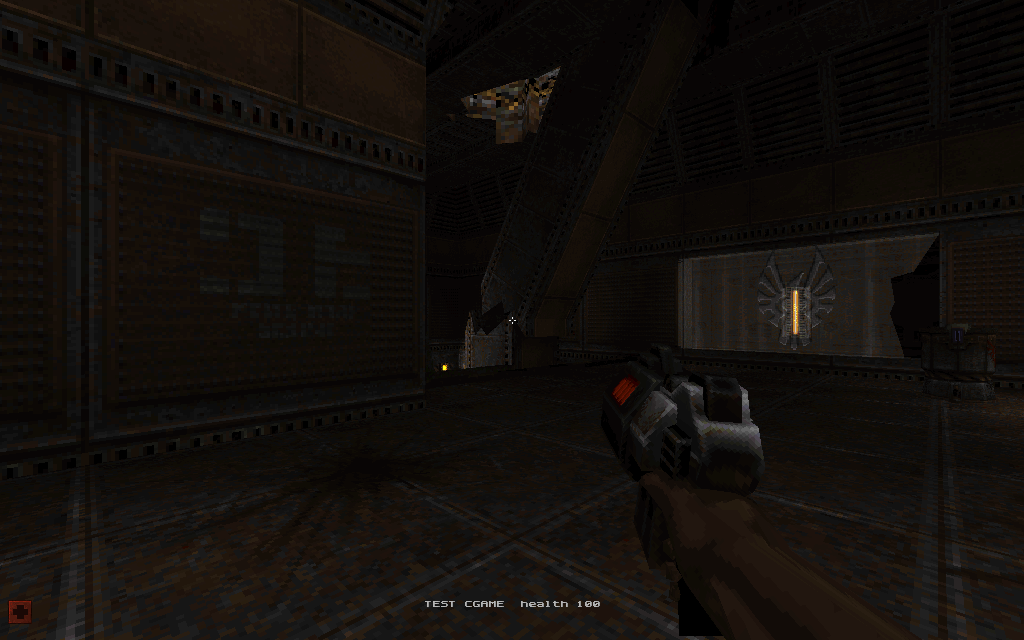
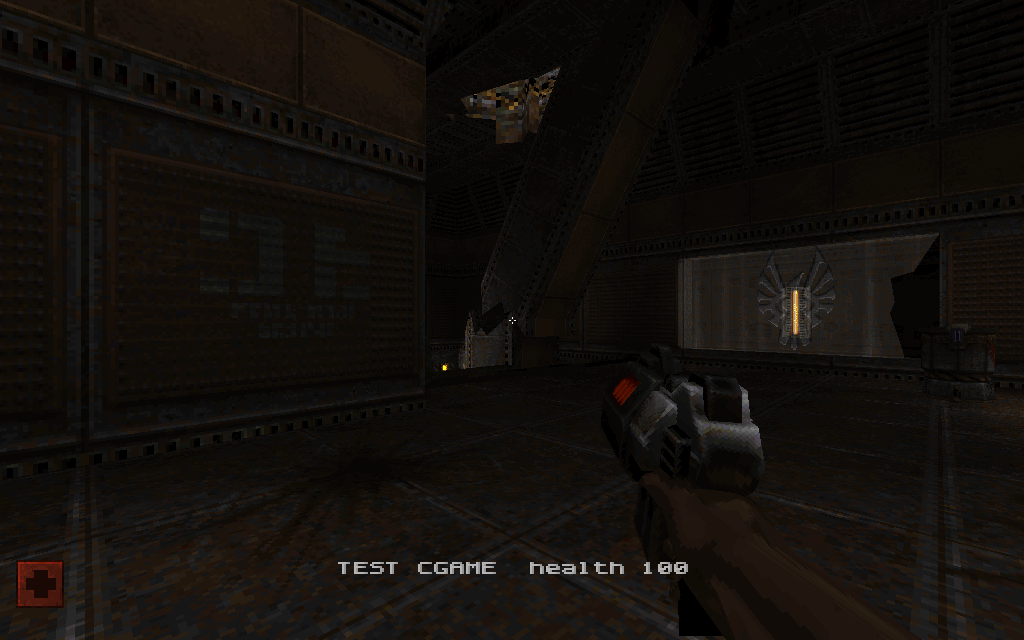
Client game HUD rect in HUD units (fix missing HUD at scale 2 and up)

diff --git a/tests/cgame/cgame_check.py b/tests/cgame/cgame_check.py
@@ -8,7 +8,8 @@ base1 and checks what the module reports about the engine's imports:
     counted (the re-release cvar_t layout),
   - the map name through the re-release configstring numbering,
   - health from the player state, frame valid, server frame, client time,
-  - a picture's size, a key binding.
+  - a picture's size, a key binding,
+  - the HUD rect in HUD units at r_hudscale 2 (pixels / scale).
 The screenshot (module HUD instead of the built-in one) lands in
 build/cgame-check/ and docs/screenshots/.
 
@@ -57,7 +58,7 @@ def main():
         log_path = OUTPUT_DIR / "client.log"
         with open(log_path, "w") as log_file:
             subprocess.run(["stdbuf", "-oL", str(CLIENT_BINARY), "-datadir", str(DEFAULT_DATA_DIR),
-                            "+set", "vid_renderer", "soft", "+set", "r_vsync", "0", "+set", "s_initsound", "0",
+                            "+set", "vid_renderer", "soft", "+set", "r_vsync", "0", "+set", "s_initsound", "0", "+set", "r_hudscale", "2",
                             "+set", "cl_cgame", str(module), "+exec", "c.cfg"],
                            env=environment, stdout=log_file, stderr=subprocess.STDOUT, timeout=60, check=False)
         shots = sorted((game_dir / "scrnshot").glob("*.png")) if (game_dir / "scrnshot").exists() else []
@@ -88,6 +89,9 @@ def main():
                f"frame valid, server frame {hud.group(4)}, client time {hud.group(5)} ms")
         report(hud.group(10) == "24" and hud.group(12) == "1", f"picture i_health {hud.group(10)}x{hud.group(11)}")
         report(hud.group(13) != "", f"+attack bound to '{hud.group(13)}'")
+        # hud_vrect is in HUD units (pixels / scale), as the re-release passes it
+        report(hud.group(6) == "2" and hud.group(7) == "512" and hud.group(8) == "320",
+               f"scale {hud.group(6)}, HUD rect {hud.group(7)}x{hud.group(8)} (1024x640 / scale)")
     else:
         report(False, "DrawHUD ran (no 'cgtest hud' line)")
 

diff --git a/tests/cgame/test_cgame.c b/tests/cgame/test_cgame.c
@@ -64,17 +64,18 @@ DrawHUD(int32_t isplit, const cg_server_data_t *data, cg_vrect_t hud_vrect, cg_v
 	draw_calls++;
 
 	snprintf(text, sizeof(text), "TEST CGAME  health %d", ps->stats[STAT_HEALTH]);
-	cgi.SCR_DrawFontString(text, hud_vrect.x + hud_vrect.width / 2, hud_vrect.y + hud_vrect.height - 40 * scale,
-		scale, &red, false, 1 /* centered */);
+	/* hud_vrect is in HUD units: multiply by scale for pixels */
+	cgi.SCR_DrawFontString(text, (hud_vrect.x + hud_vrect.width / 2) * scale,
+		(hud_vrect.y + hud_vrect.height - 40) * scale, scale, &red, false, 1 /* centered */);
 
 	cgi.Draw_GetPicSize(&pic_w, &pic_h, "i_health");
-	cgi.SCR_DrawColorPic(hud_vrect.x + 8 * scale, hud_vrect.y + hud_vrect.height - 40 * scale,
+	cgi.SCR_DrawColorPic((hud_vrect.x + 8) * scale, (hud_vrect.y + hud_vrect.height - 40) * scale,
 		pic_w * scale, pic_h * scale, "i_health", &red);
 
 	if (center_prints)
 	{
-		cgi.SCR_DrawFontString(last_center, hud_vrect.x + hud_vrect.width / 2, hud_vrect.y + hud_vrect.height / 3,
-			scale, &red, false, 1);
+		cgi.SCR_DrawFontString(last_center, (hud_vrect.x + hud_vrect.width / 2) * scale,
+			(hud_vrect.y + hud_vrect.height / 3) * scale, scale, &red, false, 1);
 	}
 
 	/* report once, after some frames */

diff --git a/src/client/cl_cgame.c b/src/client/cl_cgame.c
@@ -567,7 +567,7 @@ CL_CGame_DrawHUD(void)
 {
 	static cg_server_data_t data;
 	cg_player_state_t ps;
-	cg_vrect_t screen;
+	cg_vrect_t screen, safe_margin;
 	int i, scale;
 
 	if (!cgame || !cl.frame.valid)
@@ -587,12 +587,18 @@ CL_CGame_DrawHUD(void)
 	scale = (int)(SCR_GetHUDScale() + 0.5f);
 	scale = scale < 1 ? 1 : scale;
 
-	screen.x = scr_vrect.x;
-	screen.y = scr_vrect.y;
-	screen.width = scr_vrect.width;
-	screen.height = scr_vrect.height;
+	/* optech2: the re-release passes the HUD rect in HUD units (pixels
+	   divided by scale; the module multiplies by scale) and the safe zone as
+	   a pixel margin. Passing pixels drew the HUD off-screen at scale 2 and
+	   up (1440p and 4K). */
+	screen.x = scr_vrect.x / scale;
+	screen.y = scr_vrect.y / scale;
+	screen.width = scr_vrect.width / scale;
+	screen.height = scr_vrect.height / scale;
 
-	cgame->DrawHUD(0, &data, screen, screen, scale, cl.playernum, &ps);
+	memset(&safe_margin, 0, sizeof(safe_margin));
+
+	cgame->DrawHUD(0, &data, screen, safe_margin, scale, cl.playernum, &ps);
 }
 
 void

diff --git a/CHANGES.md b/CHANGES.md
@@ -4,6 +4,7 @@ Changes made on top of Yamagi Quake II Remaster. Upstream history is in `CHANGEL
 
 ## Unreleased
 
+- Fixed: the client game module's HUD was missing at HUD scale 2 and up (1440p, 4K): the engine passed the HUD rectangle in pixels, but re-release modules expect HUD units (pixels / scale) and multiply by the scale themselves. The cgame check now runs at scale 2.
 - Fixed: Quake II 64's intro (a camera scene ending in a level change) went to `maps/(null).bsp`: `target_changelevel` ignored being used without an activator, and pressing a key during the camera left the intermission before a next map was set. A key press now only leaves an intermission that has a next map (as in the re-release), a level exit without one stays put, and the intro goes on to q64/outpost.
 - Game menu lists the episodes of the game data (from its mapdb.json), like the re-release: with the re-release data (`-datadir ".../Quake 2/rerelease"`) that is Quake II, Call of the Machine, The Reckoning, Ground Zero and Quake II 64. Picking one asks for the skill, then starts it with the data's own start command (intro video and first map), or at its first map if the data has none. Data without episodes keeps the easy / medium / hard menu.
 - `func_eye` (Call of the Machine) spawns as a static brush model and `target_poi` (re-release objective marker) is removed, instead of both being reported as unknown.
